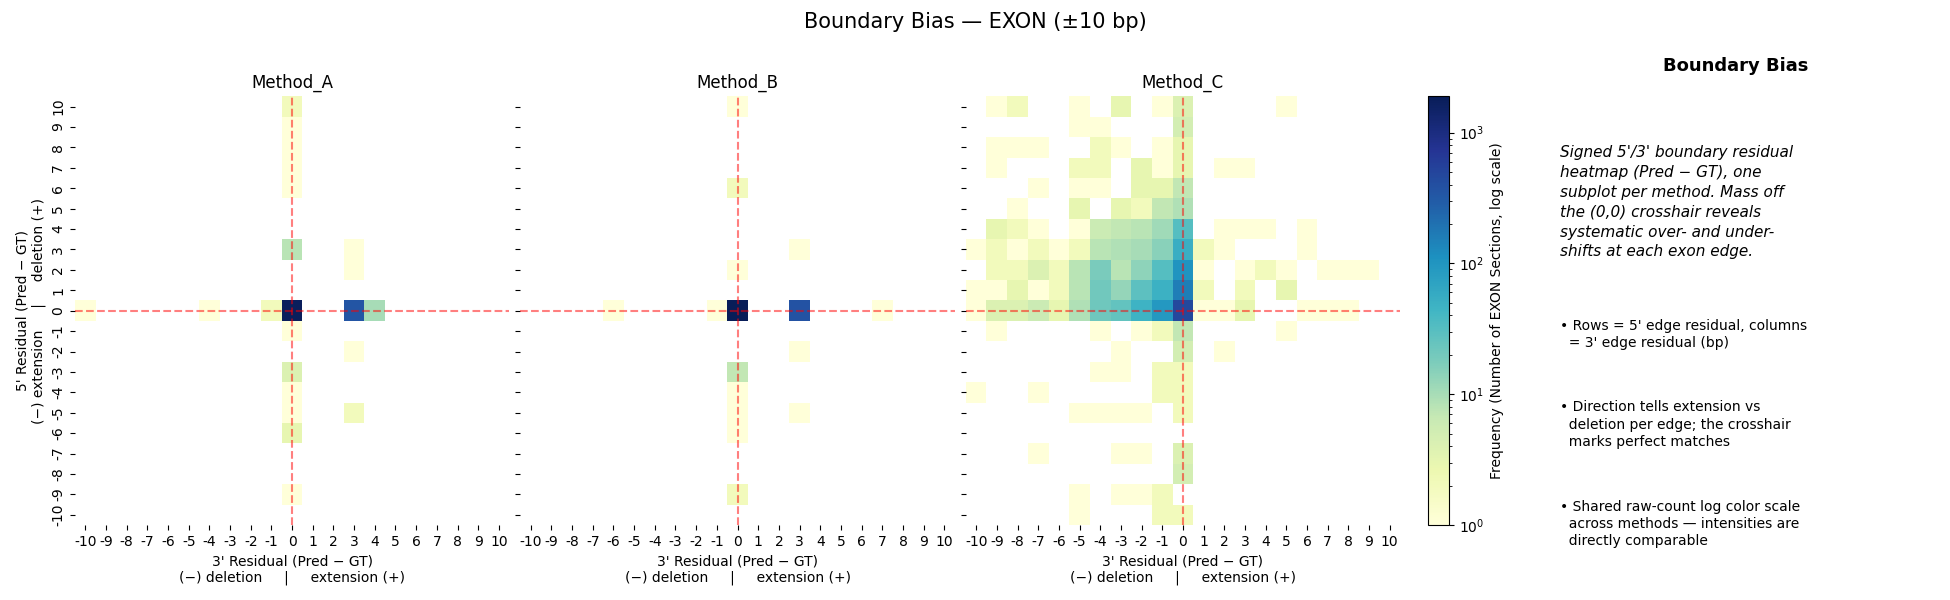
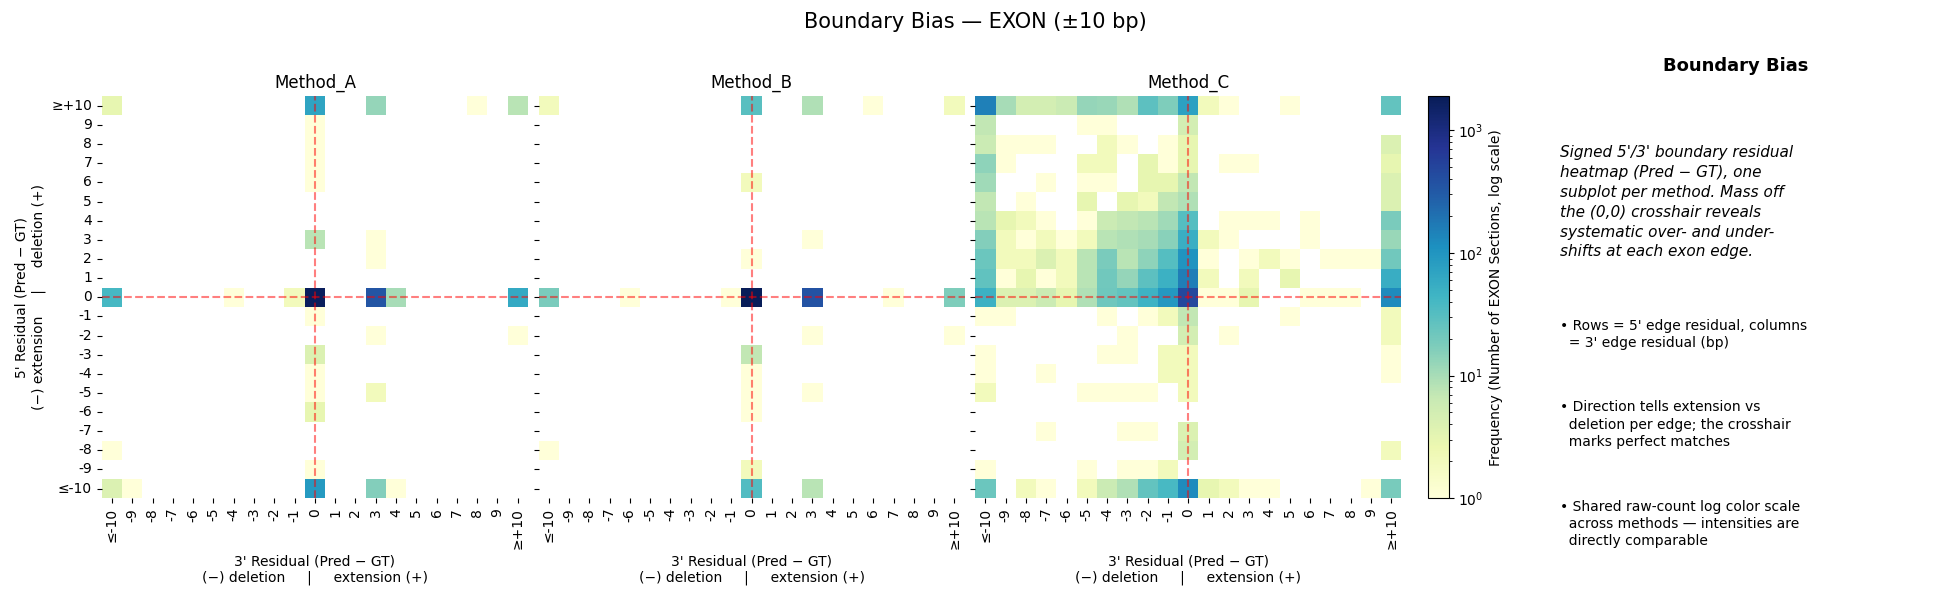
bin boundary residuals which are outside the -+ 10 edge into dedicated field to not discard them

diff --git a/src/dna_segmentation_benchmark/eval/boundary_precision.py b/src/dna_segmentation_benchmark/eval/boundary_precision.py
@@ -25,15 +25,27 @@ def _compute_boundary_precision_landscape(
             "max_range": max_range,
             "bias_matrix": np.zeros((2 * max_range + 1, 2 * max_range + 1)).tolist(),
             "reliability_matrix": np.zeros((max_range + 1, max_range + 1)).tolist(),
+            "sidedness": {
+                "total": 0, "exact": 0, "one_sided": 0, "two_sided": 0,
+                "one_sided_fraction": 0.0,
+                "clipped_from_bias_matrix": 0,
+            },
         }
 
     res_arr = np.array(residuals)  # Shape: (N, 2) — (5prime, 3prime) tuples
 
     # --- Matrix 1: Bias Matrix (The 'Scatter' Heatmap) ---
     bins = np.arange(-max_range, max_range + 2) - 0.5
+    # np.histogram2d SILENTLY DROPS points outside the bin range, and the dropped
+    # fraction is caller-dependent (heavy-tailed callers lose more), which would
+    # confound any cross-caller one-sidedness read off this matrix. Clip a COPY so
+    # out-of-window pairs saturate into the edge bins instead of vanishing — the
+    # bias matrix then holds every matched pair. Clipping is one-sidedness-invariant
+    # (it never turns a nonzero edge into zero). Reliability below keeps res_arr raw.
+    res_clipped = np.clip(res_arr, -max_range, max_range)
     # np.histogram2d: x → rows (dim 0), y → cols (dim 1)
     # ==> rows = 5', cols = 3'
-    bias_values, _, _ = np.histogram2d(x=res_arr[:, 0], y=res_arr[:, 1], bins=bins)
+    bias_values, _, _ = np.histogram2d(x=res_clipped[:, 0], y=res_clipped[:, 1], bins=bins)
 
     # --- Matrix 2: Reliability Matrix (vectorized broadcast) ---
     tolerance_ticks = np.arange(max_range + 1)
@@ -48,8 +60,27 @@ def _compute_boundary_precision_landscape(
     if total_gt_count > 0:
         reliability_values /= total_gt_count
 
+    # --- Scalar: one-sidedness decomposition (computed from RAW residuals, clip-free) ---
+    # Cross-caller-comparable summary the bias matrix cannot give once clipped: of the
+    # matched pairs with any boundary error, how many miss exactly one edge vs both.
+    r5, r3 = res_arr[:, 0], res_arr[:, 1]
+    exact = int(np.sum((r5 == 0) & (r3 == 0)))
+    two_sided = int(np.sum((r5 != 0) & (r3 != 0)))
+    one_sided = int(len(res_arr) - exact - two_sided)
+    n_err = one_sided + two_sided
+    sidedness = {
+        "total": int(len(res_arr)),
+        "exact": exact,
+        "one_sided": one_sided,
+        "two_sided": two_sided,
+        "one_sided_fraction": (one_sided / n_err) if n_err else 0.0,
+        # How much mass the ±max_range bias matrix dropped for this caller (audit trail).
+        "clipped_from_bias_matrix": int(np.sum((np.abs(r5) > max_range) | (np.abs(r3) > max_range))),
+    }
+
     return {
         "max_range": max_range,
         "bias_matrix": bias_values.tolist(),
         "reliability_matrix": reliability_values.tolist(),
+        "sidedness": sidedness,
     }

diff --git a/tests/unit/test_accumulators.py b/tests/unit/test_accumulators.py
@@ -171,6 +171,42 @@ def test_boundary_accumulator_merged_keeps_raw_summarise_adds_stats():
     np.testing.assert_allclose(np.array(landscape["reliability_matrix"]), expected_reliability)
 
 
+def test_boundary_landscape_clips_out_of_range_and_reports_sidedness():
+    """Residuals beyond ±max_range saturate into the edge bins (B) instead of being
+    silently dropped by histogram2d, and the one-sidedness scalar (C) is computed from
+    the raw residuals, clip-free."""
+    acc = BoundaryExactnessAccumulator()
+    acc.add(
+        {
+            "BOUNDARY_EXACTNESS": {
+                "first_sec_correct_3_prime_boundary": 0,
+                "last_sec_correct_5_prime_boundary": 0,
+                "iou_scores": [0.1, 0.2],
+                # (0, 500): only the 3' edge moves, far out of window.
+                # (300, 200): both edges move, far out of window.
+                "fuzzy_metrics": {"boundary_offsets": [(0, 500), (300, 200)], "total_gt": 2},
+            }
+        }
+    )
+    landscape = acc.summarise()["BOUNDARY_EXACTNESS"]["fuzzy_metrics"]
+
+    # B: both out-of-range pairs are clipped into the edge bins, none dropped.
+    bias = np.array(landscape["bias_matrix"])
+    assert bias.sum() == 2  # every matched pair retained, not silently discarded
+    assert bias[10, 20] == 1.0  # (0, 500) -> (0, +10): row 5'=0, col 3'=+10 edge
+    assert bias[20, 20] == 1.0  # (300, 200) -> (+10, +10) corner
+
+    # C: sidedness counted from RAW residuals, independent of the ±10 clip.
+    assert landscape["sidedness"] == {
+        "total": 2,
+        "exact": 0,
+        "one_sided": 1,      # (0, 500) — only one edge off
+        "two_sided": 1,      # (300, 200) — both edges off
+        "one_sided_fraction": 0.5,
+        "clipped_from_bias_matrix": 2,
+    }
+
+
 def test_benchmark_accumulator_routes_and_ignores_absent_keys():
     acc = BenchmarkAccumulator()
     acc.add({"PHASE_DRIFT": {"gt_frames": [0.0, 1.0], "n_skipped_non_divisible": 0, "n_skipped_short": 1}})

diff --git a/src/dna_segmentation_benchmark/plotting/metrics/boundary.py b/src/dna_segmentation_benchmark/plotting/metrics/boundary.py
@@ -15,12 +15,18 @@ logger = logging.getLogger(__name__)
 def _landscape_frames(landscape: dict) -> tuple[pd.DataFrame, pd.DataFrame]:
     """Rebuild the bias/reliability DataFrames from the serialisable dict."""
     max_range = landscape["max_range"]
-    bias_ticks = np.arange(-max_range, max_range + 1)
+    # Out-of-window residuals are clipped into the edge bins (see boundary_precision.py),
+    # so the two extreme ticks are saturation buckets, not exact ±max_range values.
+    bias_labels = (
+        [f"≤-{max_range}"]
+        + [str(t) for t in range(-max_range + 1, max_range)]
+        + [f"≥+{max_range}"]
+    )
     tolerance_ticks = np.arange(max_range + 1)
     bias_matrix = pd.DataFrame(
         np.asarray(landscape["bias_matrix"], dtype=float),
-        index=pd.Index(bias_ticks, name="5' Residual (Pred − GT)"),
-        columns=pd.Index(bias_ticks, name="3' Residual (Pred − GT)"),
+        index=pd.Index(bias_labels, name="5' Residual (Pred − GT)"),
+        columns=pd.Index(bias_labels, name="3' Residual (Pred − GT)"),
     )
     reliability_matrix = pd.DataFrame(
         np.asarray(landscape["reliability_matrix"], dtype=float),

diff --git a/tests/support/cases.py b/tests/support/cases.py
@@ -1315,6 +1315,11 @@ MULTI_SEQUENCE_TEST_CASES = [
                     "max_range": 10,
                     "bias_matrix": np.zeros((21, 21)),
                     "reliability_matrix": np.zeros((11, 11)),
+                    "sidedness": {
+                        "total": 0, "exact": 0, "one_sided": 0, "two_sided": 0,
+                        "one_sided_fraction": 0.0,
+                        "clipped_from_bias_matrix": 0,
+                    },
                 },
             },
             "NUCLEOTIDE_CLASSIFICATION": {"nucleotide": _ZERO_SUMMARY},

diff --git a/docs/metrics/boundary_exactness.md b/docs/metrics/boundary_exactness.md
@@ -59,7 +59,11 @@ truth**:
   raw-count, log-scaled color norm, since the `(0, 0)` exact-match cell
   otherwise dominates the count and hides the (much rarer) off-center error
   structure. Cells with zero observations are left blank rather than colored as
-  the low end of the scale.
+  the low end of the scale. Residuals beyond `±max_range` are **clipped into the
+  two extreme rows/columns** (labeled `≤-max_range` / `≥+max_range`), so those
+  edge cells are saturation buckets, not exact `±max_range` values — every
+  matched pair is retained rather than silently dropped, keeping the one-sidedness
+  read comparable across callers with different tail weights.
 - **Cumulative recall with relaxed boundaries** — how recall improves when each
   boundary is counted as a match given a tolerance budget on the 5' and 3' end.
   The tolerance is two-sided (±): a boundary matches when its residual falls
@@ -75,6 +79,24 @@ Interpretation:
 - values centered near `(0, 0)`: boundaries are usually exact
 - mass shifted to negative 5' residuals: predictions start too early
 - mass shifted to positive 3' residuals: predictions end too late
+
+## One-Sidedness Decomposition
+
+Aggregation also emits a clip-free scalar summary under
+`fuzzy_metrics["sidedness"]`, computed from the **raw** residuals (not the
+clipped bias matrix). Of all matched pairs it splits the boundary errors into
+those that miss exactly one edge versus both:
+
+- `total`, `exact` — matched-pair count and how many hit both boundaries dead-on
+- `one_sided` / `two_sided` — pairs where only one / both of the 5' and 3' edges
+  are off, with `one_sided_fraction` taken over the errored pairs
+  (`one_sided + two_sided`; the two-sided fraction is its complement)
+- `clipped_from_bias_matrix` — audit count of pairs whose `|residual|` exceeded
+  `max_range` on either edge (the mass the bias heatmap saturated into its edge
+  buckets)
+
+Because it is read off the raw residuals, this fraction is comparable across
+callers regardless of how heavy their offset tails are.
 
 ## Terminal Boundary Flags
 
@@ -109,7 +131,10 @@ the transcript. See `conventions.md` for the full convention.
 - IoU mean is informative, but it hides whether errors are a few large misses
   or many small offsets. Use it together with the distribution plot.
 - The bias-landscape histogram is bounded to `±max_range` (default 10 bp).
-  Residuals beyond that range silently fall outside the bias matrix while
-  still contributing to the cumulative-recall surface.
+  Residuals beyond that range are clipped into the edge buckets (not dropped),
+  so the matrix still counts every matched pair; the exact out-of-window offset
+  is recoverable only from the raw `boundary_offsets` and the
+  `sidedness["clipped_from_bias_matrix"]` audit count. They also contribute to
+  the cumulative-recall surface, which is computed clip-free.
 - See {doc}`conventions` for the inclusive-endpoint rule that governs IoU
   and the array-orientation rule that governs the 5'/3' field names.
